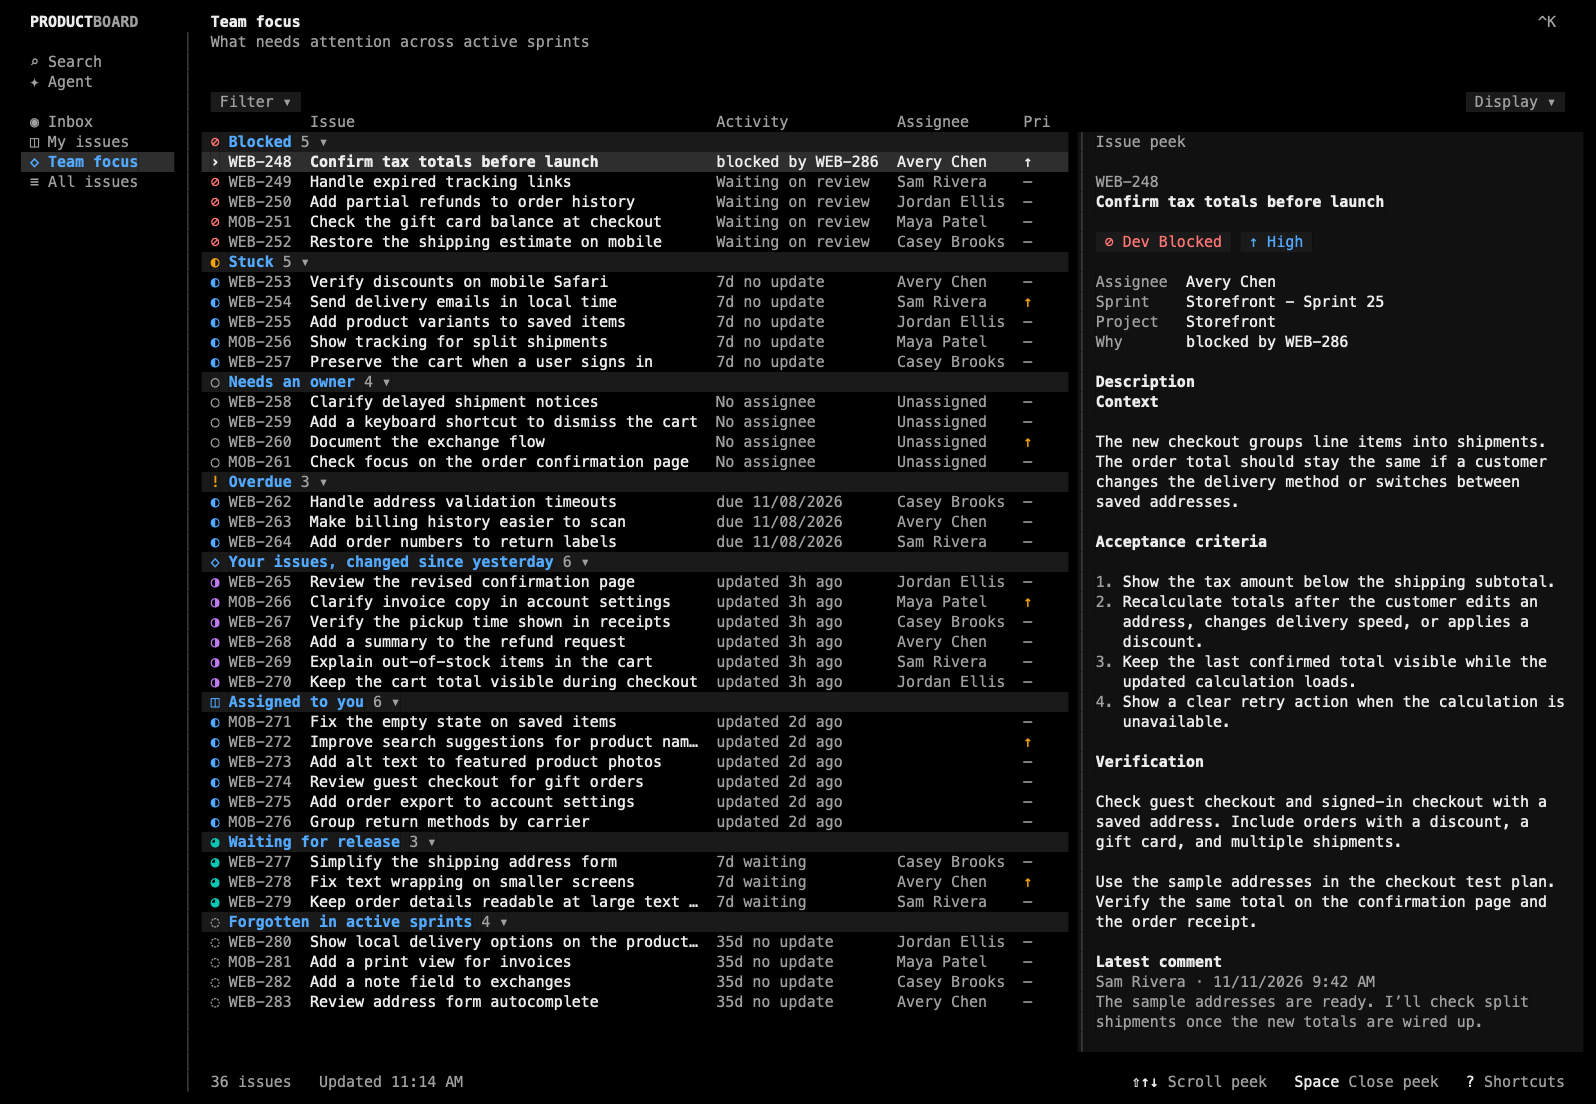
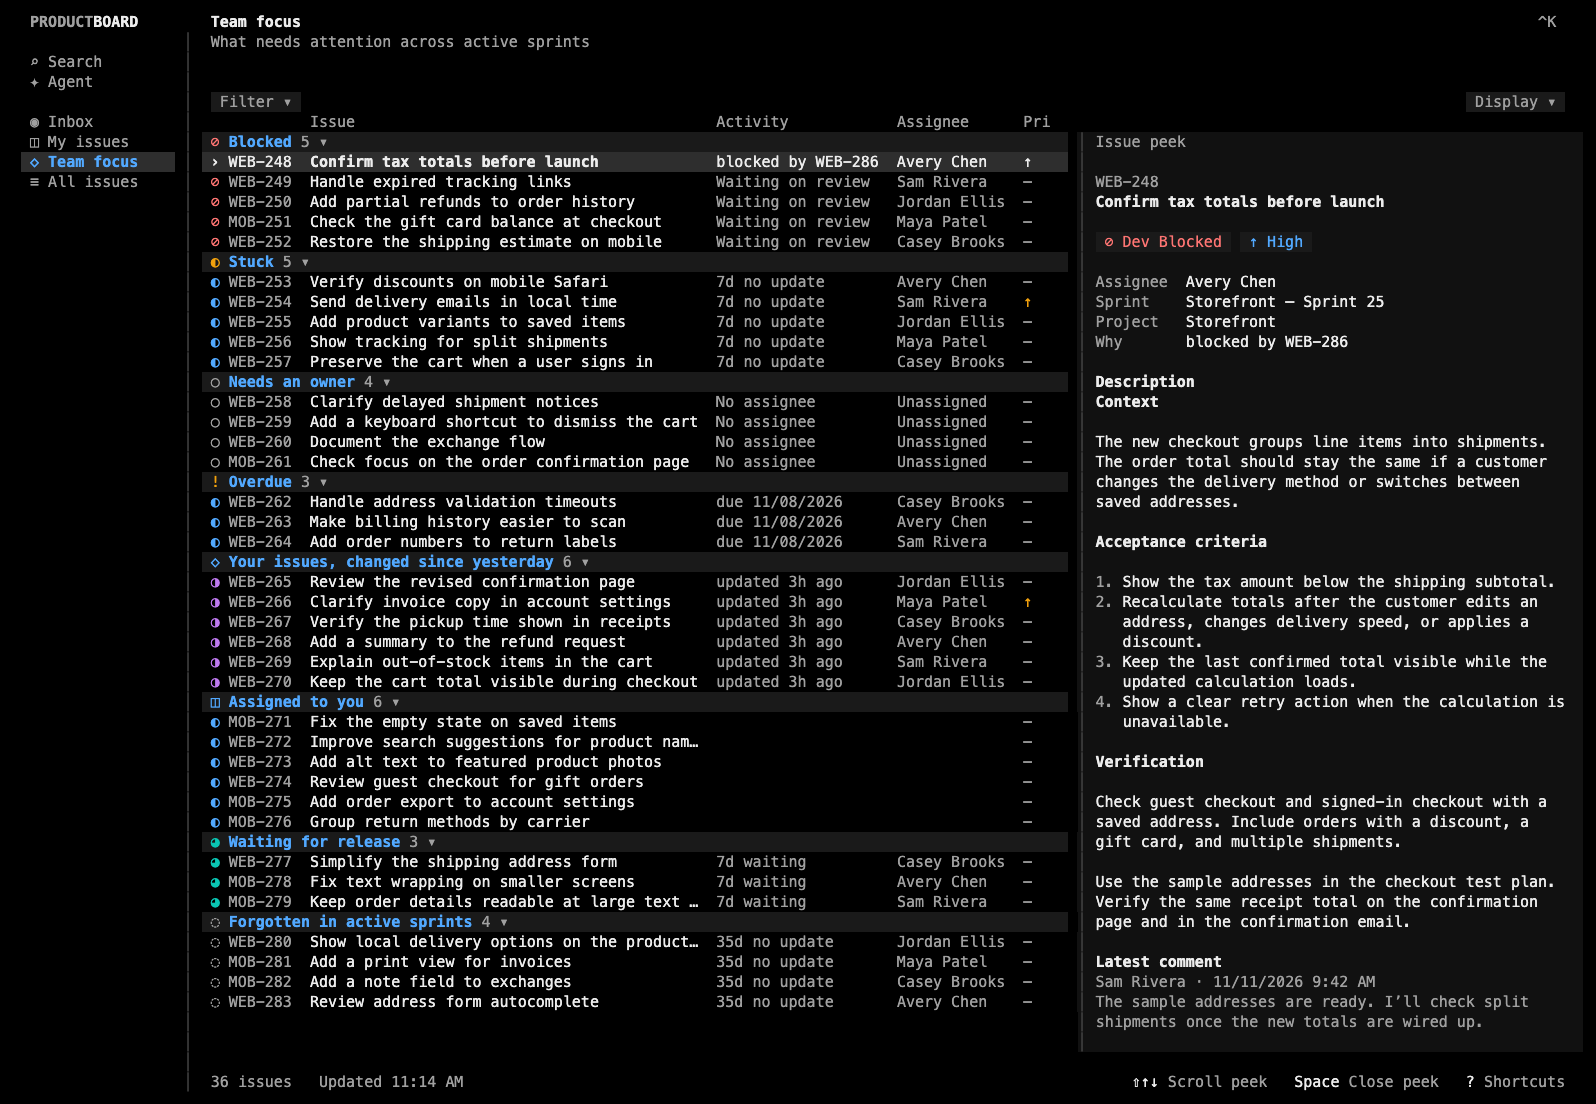
fix: emphasize board in the wordmark

diff --git a/src/ui/frame.ts b/src/ui/frame.ts
@@ -67,8 +67,8 @@ function drawTopBar(canvas: Canvas, d: Dashboard, sidebar: number, header: PageH
   const product = "PRODUCT";
   const board = "BOARD";
   const boardStart = 2 + cells(product);
-  canvas.put(0, 2, product, "title");
-  canvas.put(0, boardStart, board, "mutedBold");
+  canvas.put(0, 2, product, "mutedBold");
+  canvas.put(0, boardStart, board, "title");
   const shortcut = " ^K ";
   const right = width - 2 - cells(shortcut);
   canvas.put(0, right, shortcut, "muted");
